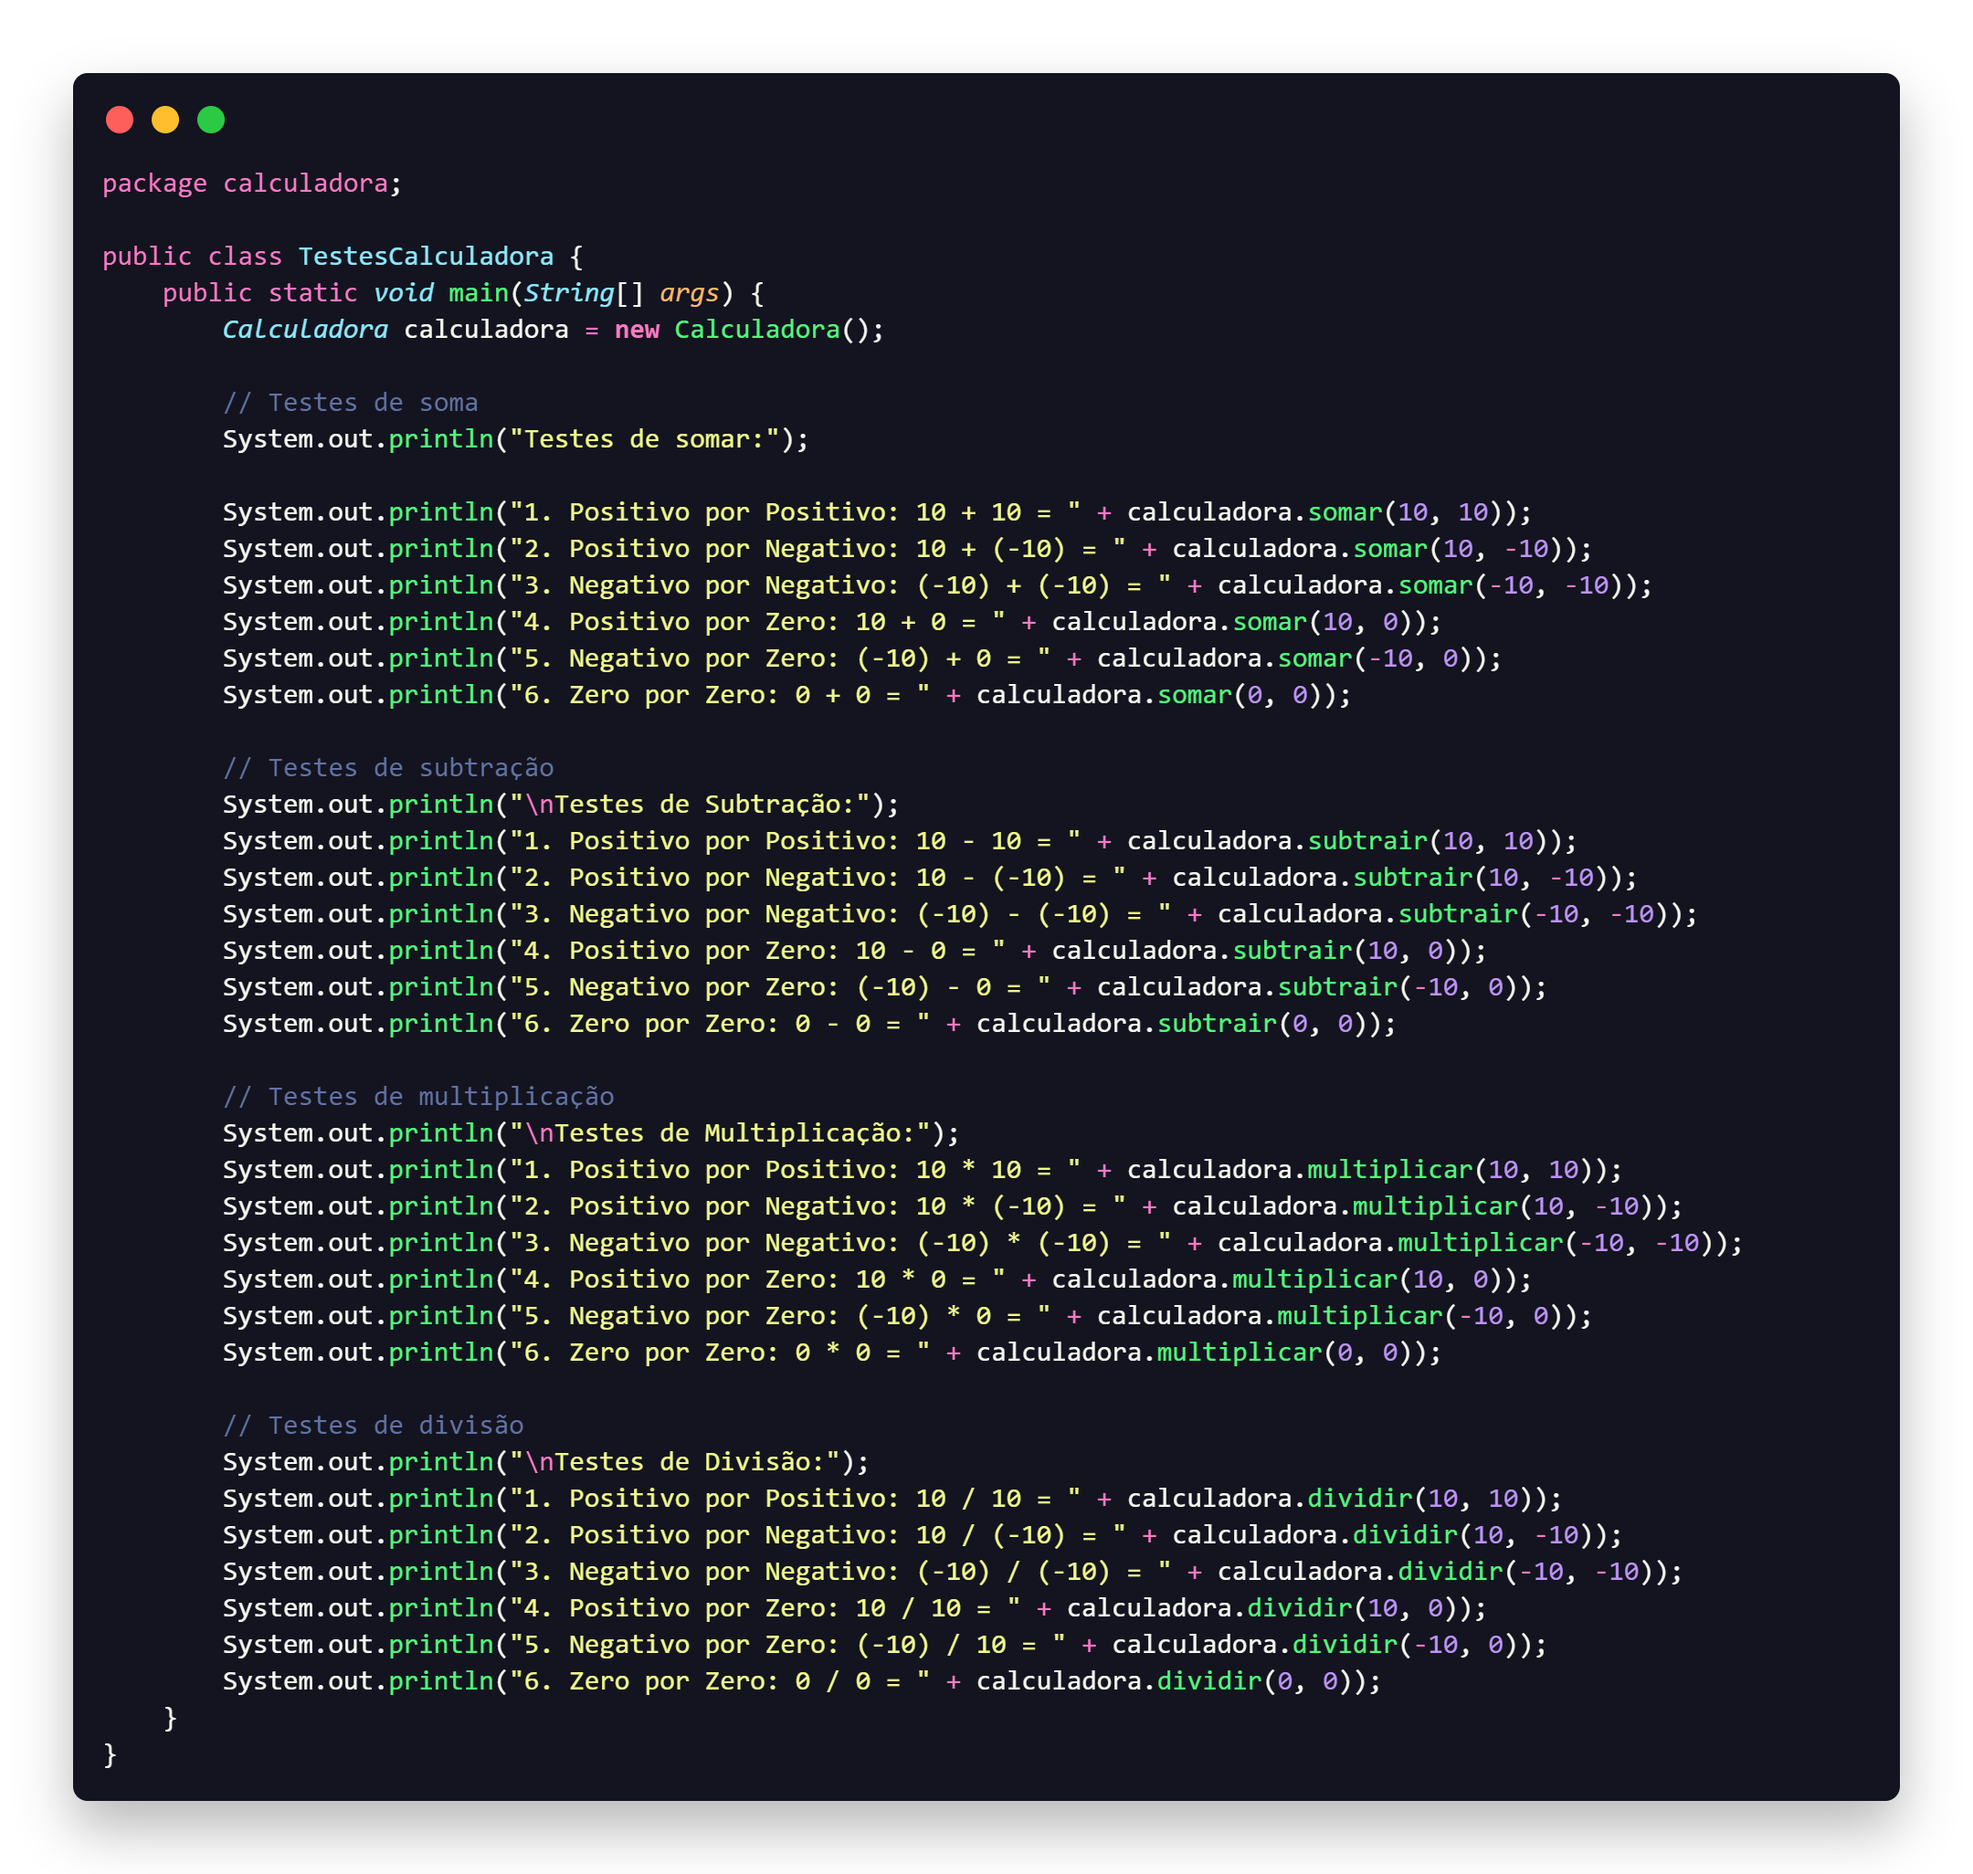
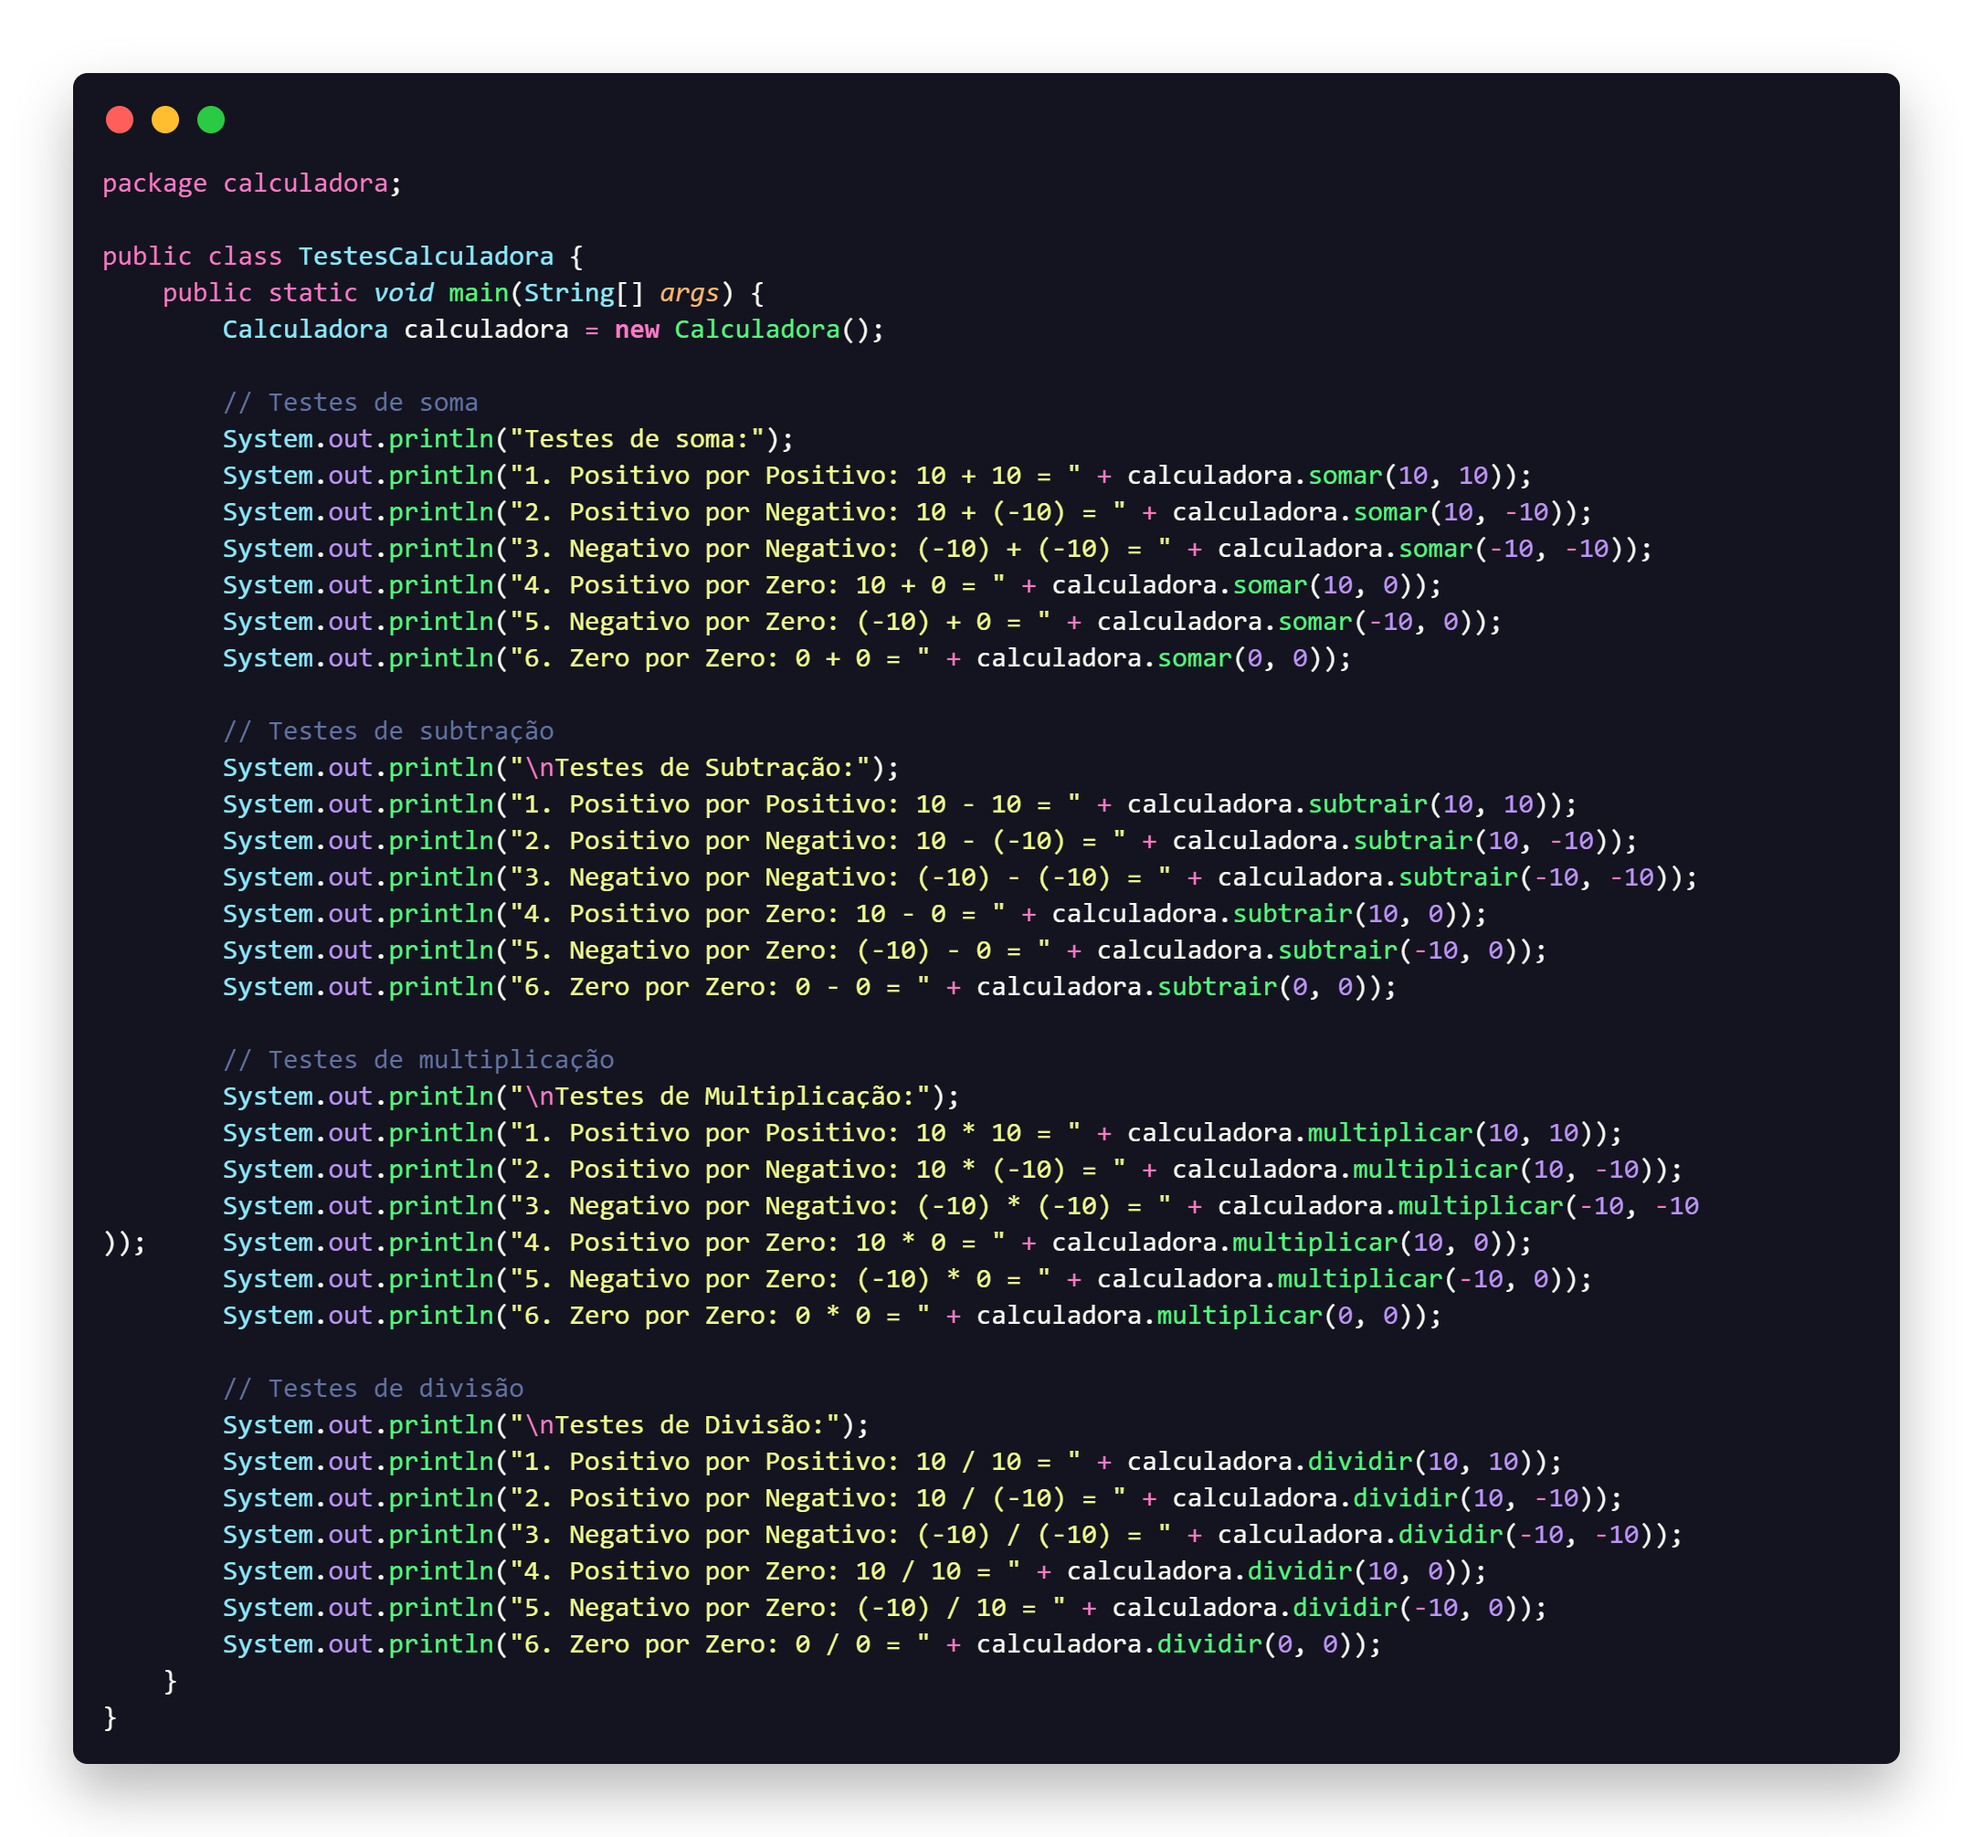
correcting spelling and reference image

Changed region(s): [[0.0931, 0.2157, 0.8685, 0.9245], [0.062, 0.0924, 0.4343, 0.1849]]

diff --git a/src/calculadora/TestesCalculadora.java b/src/calculadora/TestesCalculadora.java
@@ -5,8 +5,7 @@ public class TestesCalculadora {
         Calculadora calculadora = new Calculadora();
 
         // Testes de soma
-        System.out.println("Testes de somar:");
-
+        System.out.println("Testes de soma:");
         System.out.println("1. Positivo por Positivo: 10 + 10 = " + calculadora.somar(10, 10));
         System.out.println("2. Positivo por Negativo: 10 + (-10) = " + calculadora.somar(10, -10));
         System.out.println("3. Negativo por Negativo: (-10) + (-10) = " + calculadora.somar(-10, -10));
